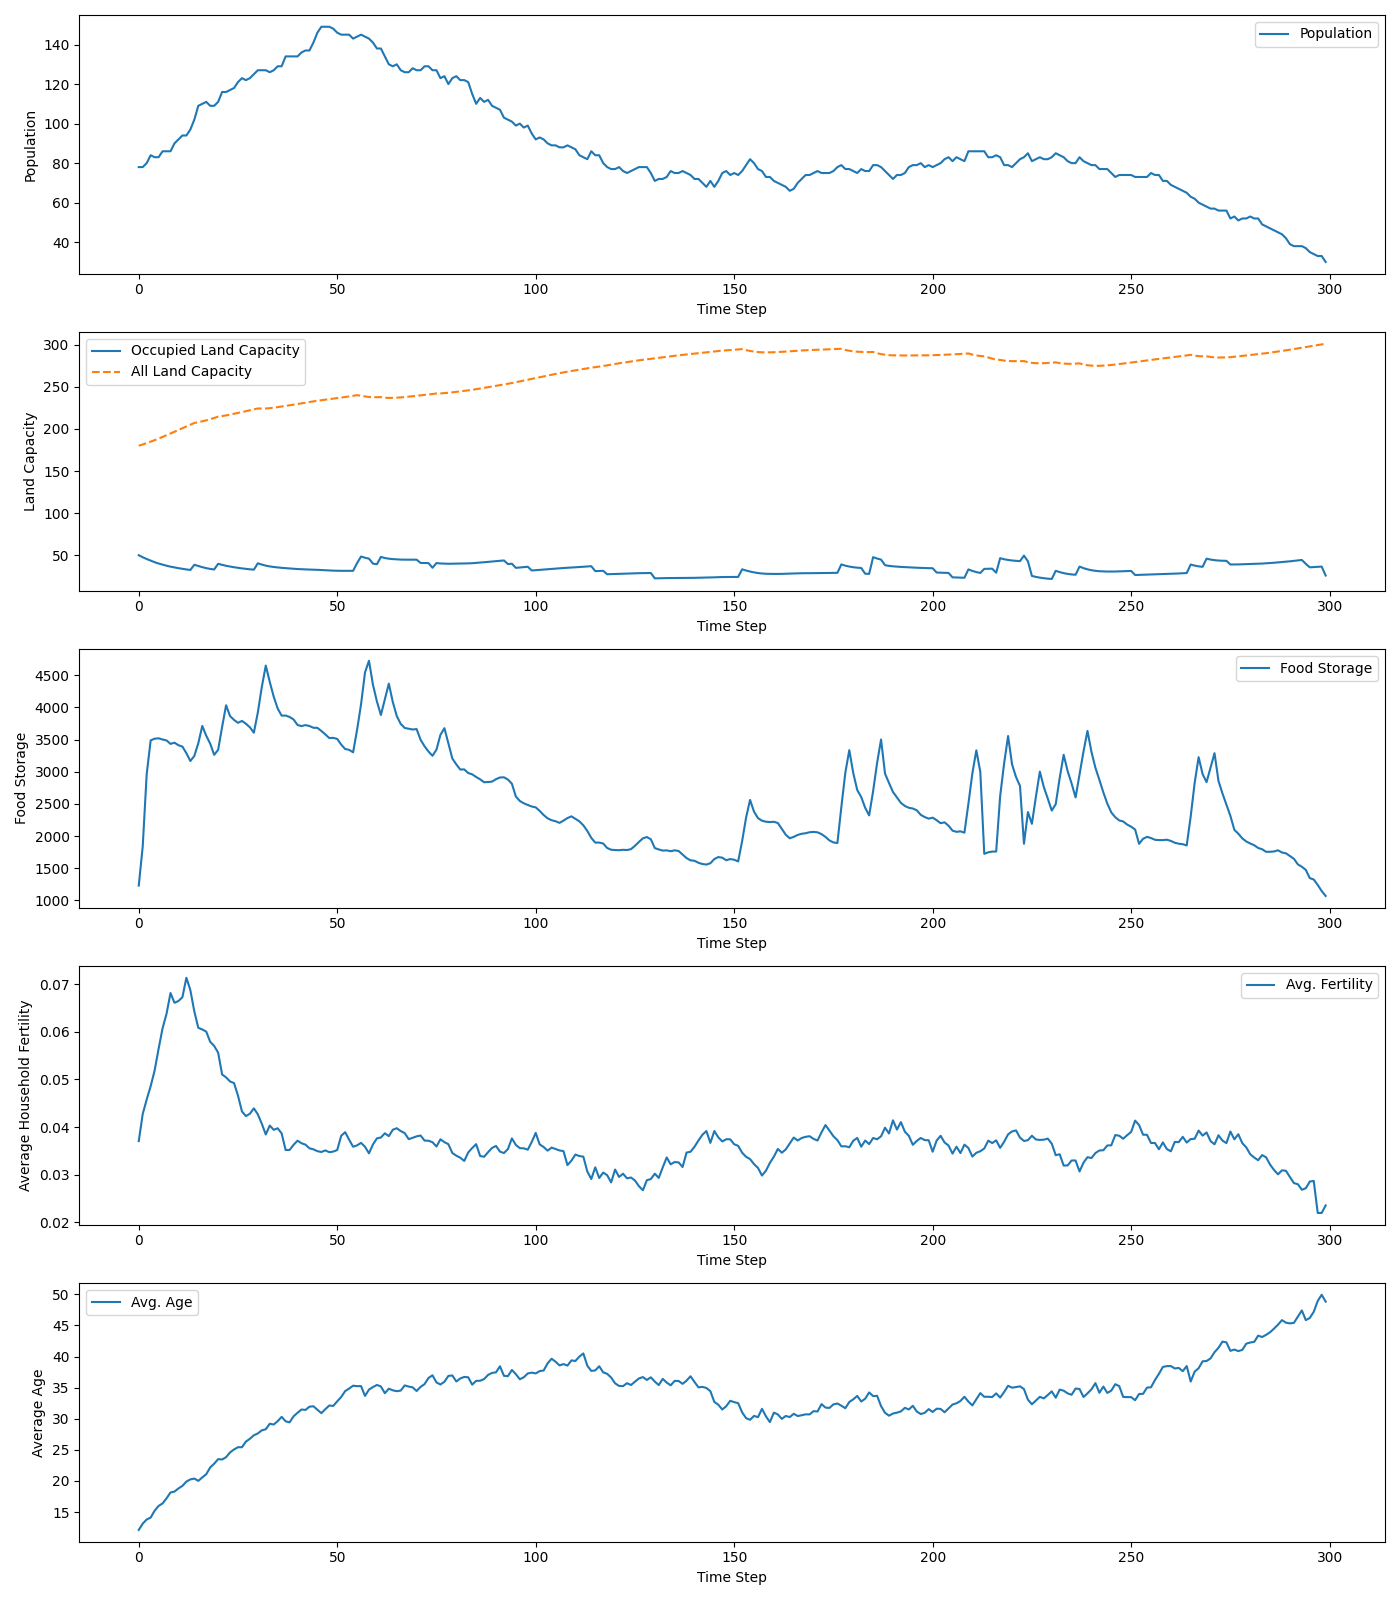
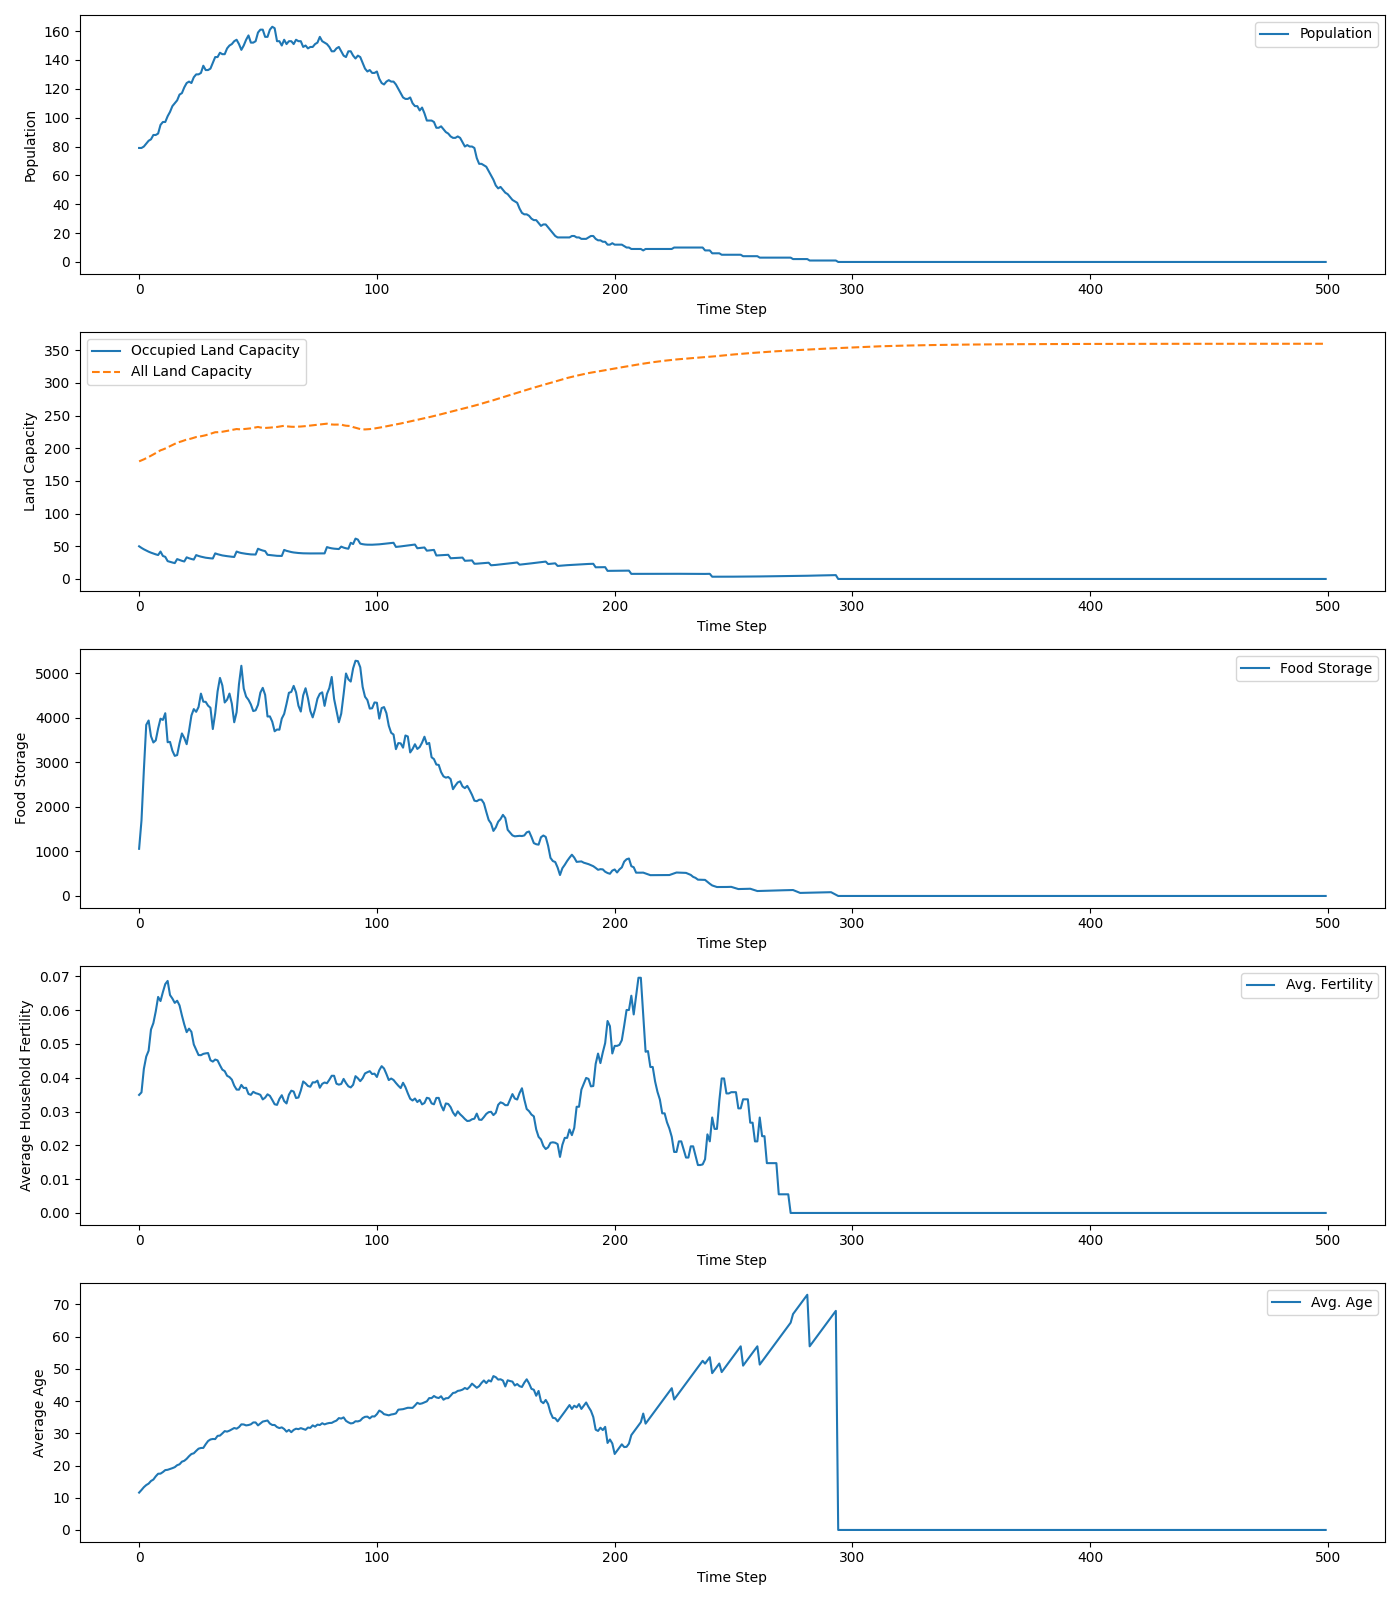
modified:   Plot.png 	modified:   __pycache__/agent.cpython-312.pyc 	modified:   __pycache__/household.cpython-312.pyc 	modified:   __pycache__/village.cpython-312.pyc 	modified:   household.py 	modified:   village.py 	modified:   village_simulation.gif

diff --git a/village.py b/village.py
@@ -659,22 +659,33 @@ class Village:
         """Find potential spouses for an agent from other households."""
         potential_spouses = []
         for household in self.households:
-            for member in household.members:
-                if member.gender != agent.gender and member.household_id != agent.household_id and member.is_alive and 14 <= member.age <= 50 and member.marital_status == 'single':
-                    print(agent.household_id == member.household_id)
-                    print(agent.household_id, member.household_id)
-                    potential_spouses.append(member)
+            if household.get_total_food() > 100: # need to be able to pay bride price
+                for member in household.members:
+                    if member.gender != agent.gender and member.household_id != agent.household_id and member.is_alive and 14 <= member.age <= 50 and member.marital_status == 'single':
+                        print(agent.household_id == member.household_id)
+                        print(agent.household_id, member.household_id)
+                        potential_spouses.append(member)
         return potential_spouses
     
     def marry_agents(self, female_agent, male_agent):
         """Handle the marriage process, ensuring the female moves to the male's household."""
         old_household = self.get_household_by_id(female_agent.household_id)
-        print('old house female', old_household)
         female_agent.marry(male_agent)
-        print('female', female_agent.age)
-        
-        print(old_household)
+        bride_price = 100
+        price_to_pay = bride_price 
         new_household = self.get_household_by_id(male_agent.household_id)
+        while price_to_pay > 0 and new_household.food_storage: 
+            amount, age_added = new_household.food_storage[0]
+            if price_to_pay <= amount:
+                new_household.food_storage[0] = (amount - price_to_pay, age_added)
+                price_to_pay = 0
+            else:
+                new_household.food_storage.pop(0)
+                price_to_pay -= amount
+        
+        
+        
+        old_household.add_food(bride_price - price_to_pay)
         # women move to men's household after marriage.
         new_household.extend(female_agent)
         old_household.remove_member(female_agent)

diff --git a/household.py b/household.py
@@ -228,3 +228,6 @@ class Household:
                 self.food_storage.pop(0)
                 still_need -= amount
         village.add_food_village(food_amount - still_need)
+    
+    def get_total_food(self):
+        return sum(amount for amount, _ in self.food_storage)
